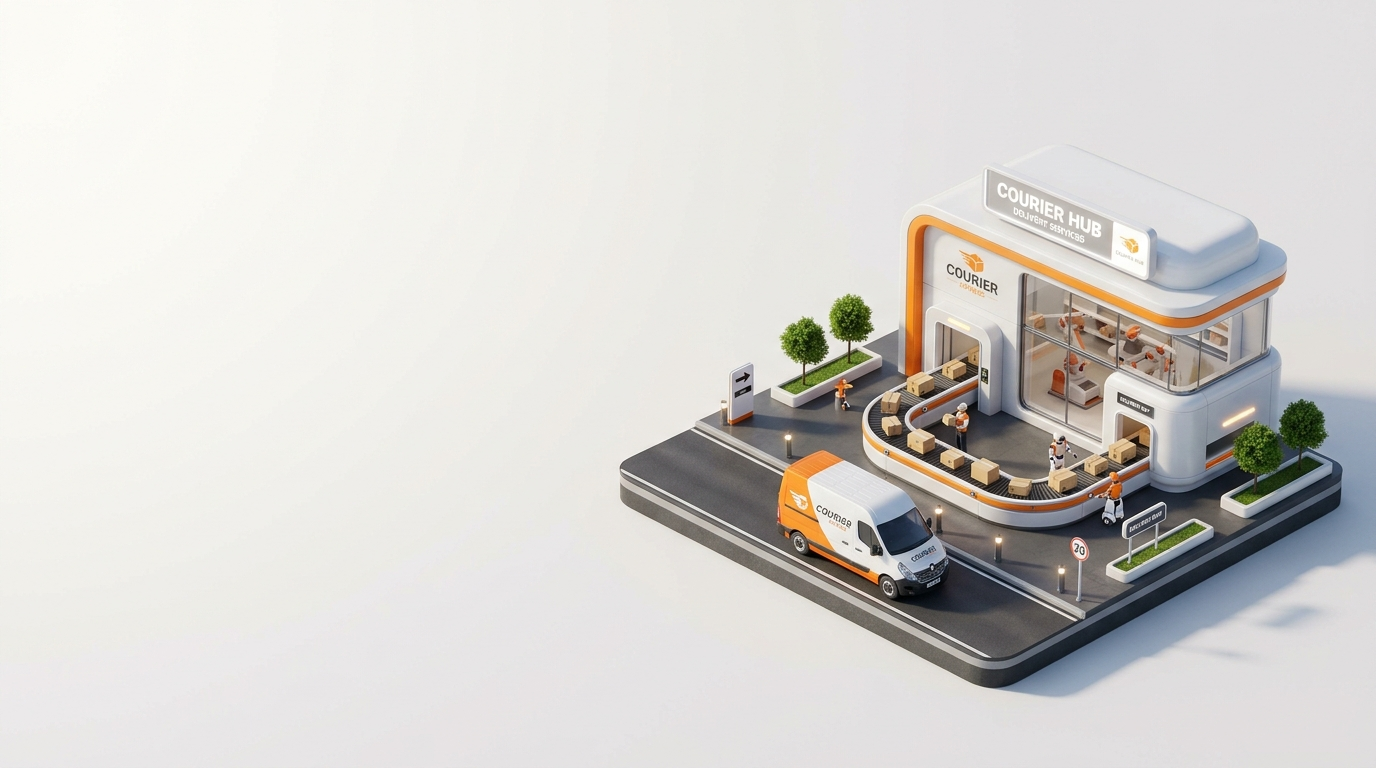
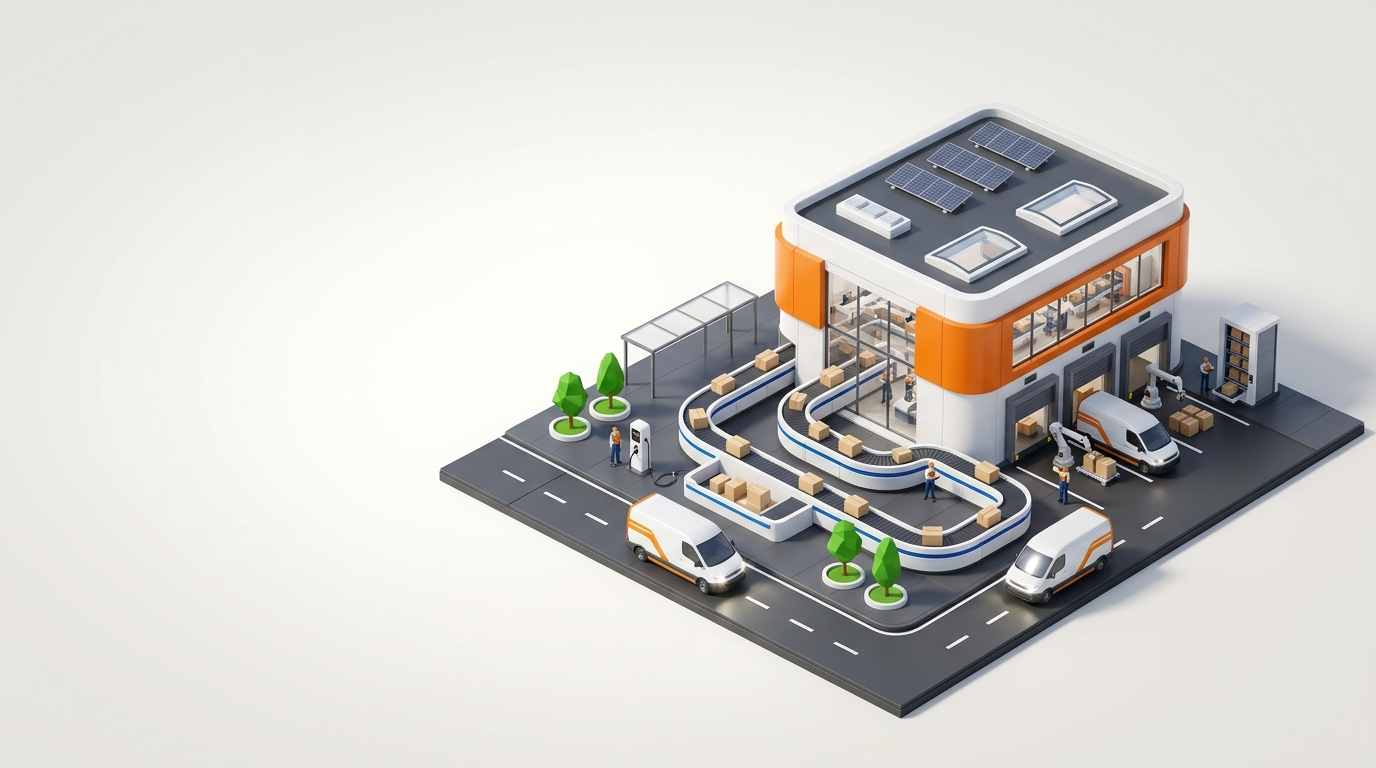
feat(ui): update hero with brand-new high-resolution 3D isometric diorama

Changed region(s): [[0.3125, 0.125, 1.0, 0.9375], [0.0312, 0.0, 0.0938, 0.0312]]

diff --git a/web/src/app/page.tsx b/web/src/app/page.tsx
@@ -22,19 +22,19 @@ export default function HomePage() {
   return (
     <div className="w-full">
       {/* HERO SECTION */}
-      <section className="relative w-full min-h-[660px] sm:min-h-[720px] lg:min-h-[780px] flex items-center pt-28 sm:pt-36 pb-16 overflow-hidden bg-[#f4f5f7]">
+      <section className="relative w-full min-h-[660px] sm:min-h-[720px] lg:min-h-[800px] flex items-center pt-28 sm:pt-36 pb-16 overflow-hidden bg-[#e8e7e2]">
         {/* Full-bleed 3D Isometric Logistics Scene */}
         <div className="absolute inset-0 z-0 pointer-events-none select-none">
           <Image
-            src="/hero-clean-ref-2x.jpg"
+            src="/hero-bg.jpg"
             alt="SwiftDrop 3D Smart Logistics Hub"
             fill
             priority
             quality={95}
-            className="object-cover object-right md:object-right-center"
+            className="object-cover object-right lg:object-center"
           />
           {/* Studio lighting gradient to ensure text readability on all viewports */}
-          <div className="absolute inset-0 bg-gradient-to-r from-[#f4f5f7] via-[#f4f5f7]/95 sm:via-[#f4f5f7]/80 md:via-[#f4f5f7]/40 to-transparent z-10" />
+          <div className="absolute inset-0 bg-gradient-to-r from-[#e8e7e2] via-[#e8e7e2]/90 sm:via-[#e8e7e2]/70 md:via-[#e8e7e2]/30 to-transparent z-10" />
         </div>
 
         <div className="relative z-20 max-w-6xl mx-auto px-4 sm:px-6 lg:px-8 w-full">
